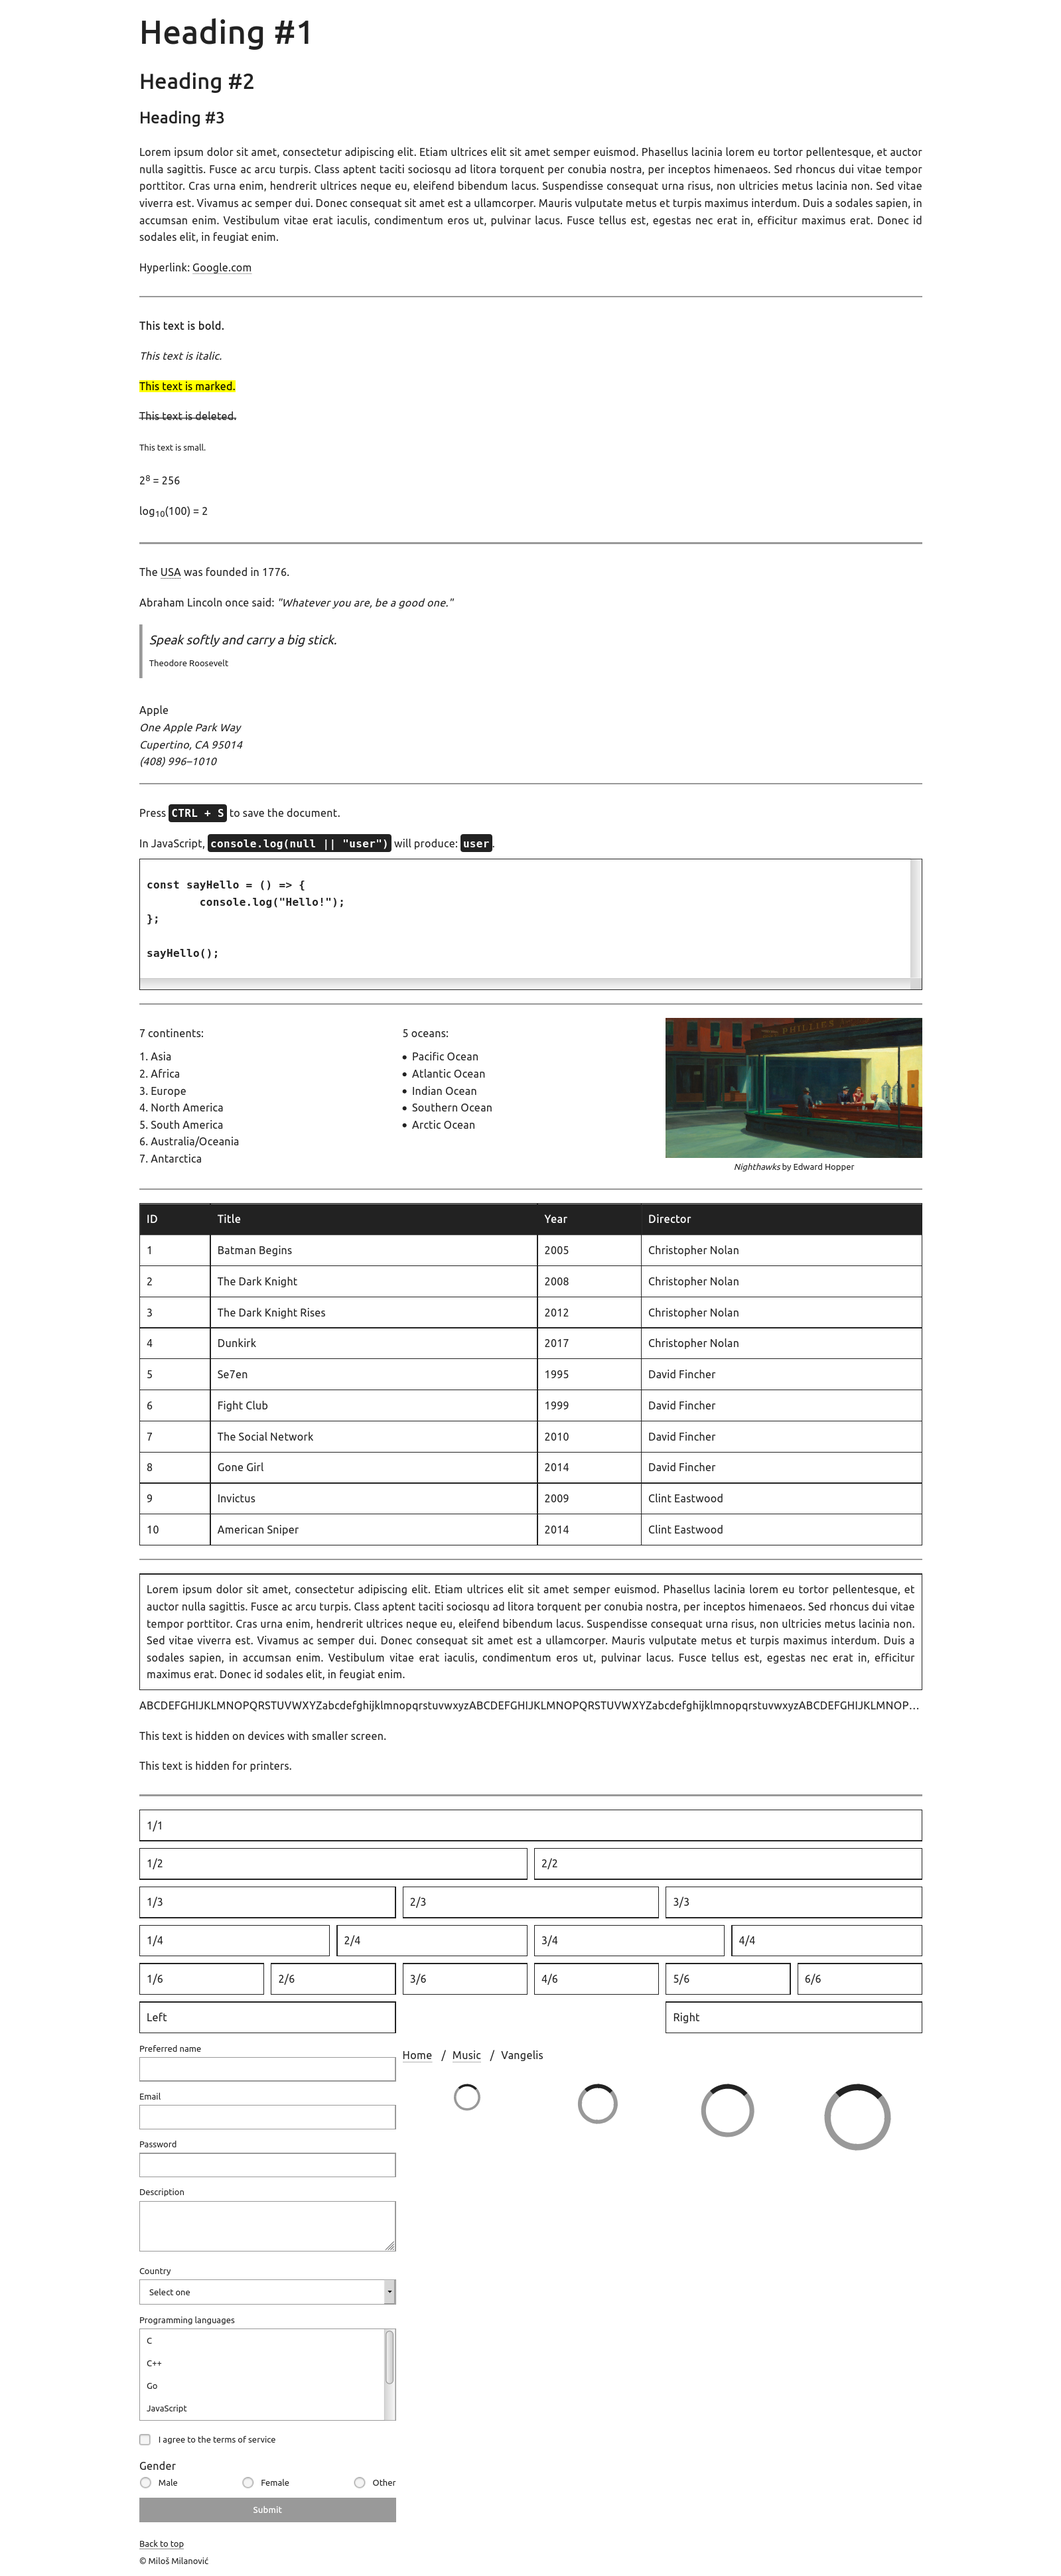
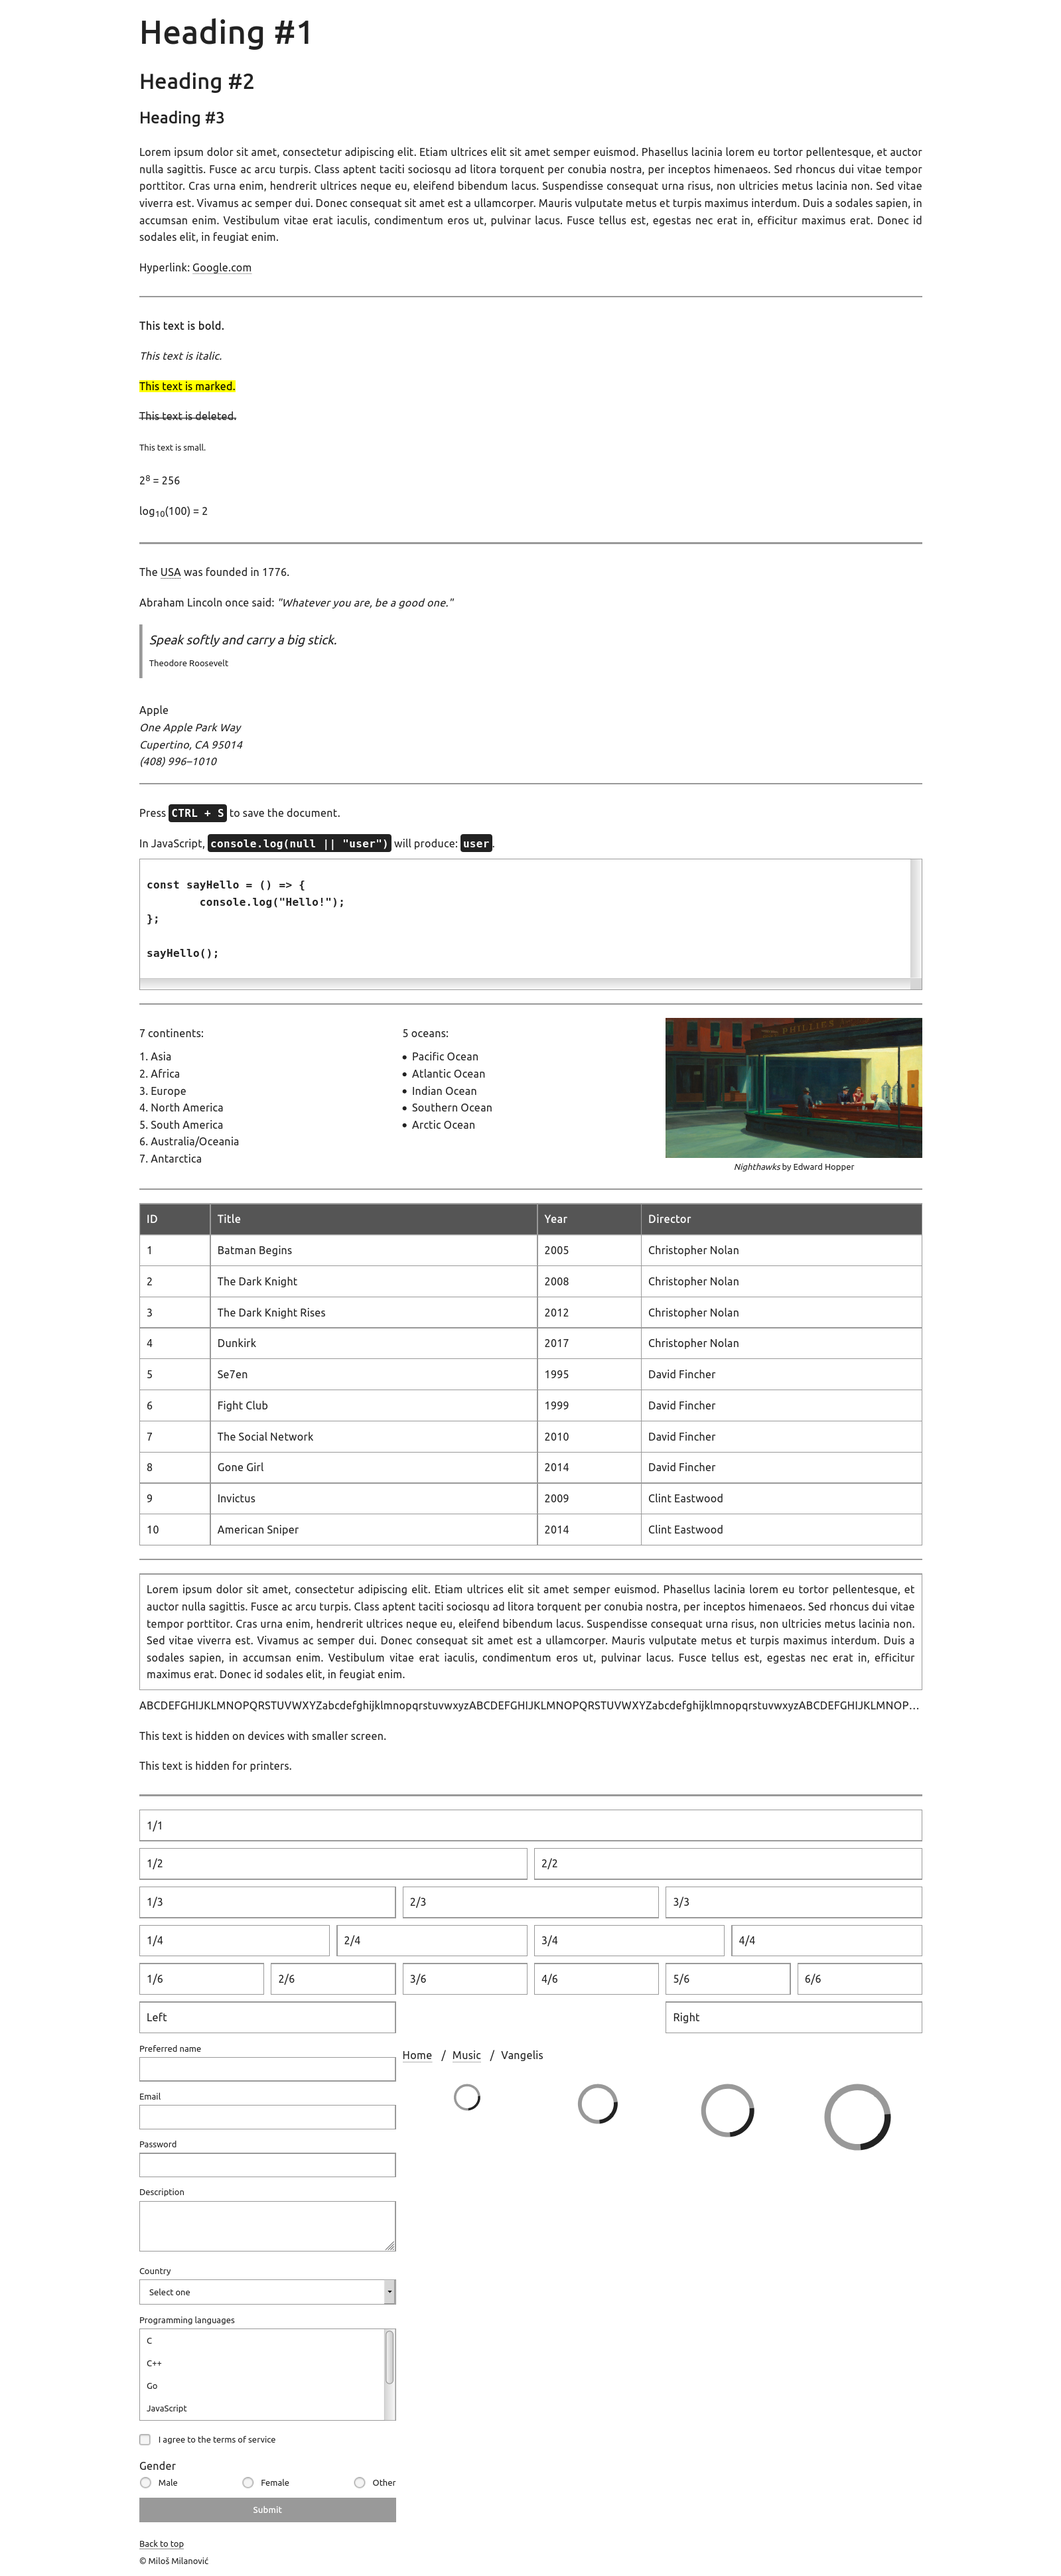
Change border colors to lighter

Changed region(s): [[0.1226, 0.4675, 0.8887, 0.4987], [0.7967, 0.8104, 0.8274, 0.8416]]

diff --git a/dist/minimalizr.css b/dist/minimalizr.css
@@ -1,1 +1,1 @@
-@import"https://fonts.googleapis.com/css2?family=Ubuntu&display=swap";*{font-family:"Ubuntu",sans-serif}*{box-sizing:border-box;margin:0;padding:0}*:focus{outline:3px solid #999;outline-offset:3px}*::selection{background-color:#222;color:#fff}html{font-size:100%;scroll-behavior:smooth}body{background-color:#fff;color:#222;font-size:1rem;line-height:1.6rem}h1,h2,h3{margin:10px 0}h1{font-size:3rem;line-height:4.8rem}h2{font-size:2rem;line-height:3.2rem}h3{font-size:1.5rem;line-height:2.4rem}p{padding:10px 0;text-align:justify}a{cursor:pointer;text-decoration:none;border-bottom:1px solid #999;color:inherit}a:hover,a:active{color:#555}strong{font-weight:bold}em{font-style:italic}mark{background-color:#ff0}del{text-decoration:line-through}small,sub,sup{font-size:smaller}sub{vertical-align:sub}sup{vertical-align:super}abbr[title]{text-decoration:underline dotted}q{font-style:italic}q::before,q::after{content:'"'}blockquote{border-left:5px solid #999;font-style:italic;margin:10px 0;padding:10px;text-align:justify;font-size:larger}blockquote div{font-size:small;font-style:normal;margin-top:10px}address,cite{font-style:italic}kbd,samp,code,pre{font-family:monospace;font-weight:bold}kbd,samp,code{background-color:#222;color:#fff;padding:4px;border-radius:4px}.code{border:1px solid #222;padding:0 10px;overflow:scroll}.code pre{tab-size:1}.code pre code{background-color:inherit;color:inherit}ul,ol{list-style-position:inside}img{max-width:100%;vertical-align:middle}figure figcaption{font-size:smaller;text-align:center}.table-responsive{max-width:100%;overflow-x:auto}table{border-collapse:collapse;width:100%}th,td{border:1px solid #222;padding:10px;text-align:left}th{background-color:#222;color:#fff}form{display:grid;grid-auto-flow:row;grid-gap:10px}label{font-size:smaller}label span{user-select:none}label span:first-child{display:inline-block}.checkbox label{cursor:pointer;display:inline-flex;align-items:center}.checkbox input[type=checkbox]{width:auto;margin-right:10px}.radiogroup{display:flex;justify-content:space-between;flex-wrap:wrap}.radiogroup>span{width:100%}.radiogroup label{cursor:pointer;user-select:none;display:inline-flex;align-items:center;flex-direction:row-reverse}.radiogroup input[type=radio]{width:auto;margin-right:10px}input,textarea,select{border:2px solid #999;background-color:#fff;padding:10px;width:100%;box-shadow:none}input:invalid,textarea:invalid,select:invalid{border-color:red}input:disabled,textarea:disabled,select:disabled{color:#999;cursor:not-allowed}select[multiple]{padding:0}select[multiple] option{padding:10px}textarea{height:auto;min-height:40px;max-height:300px;resize:vertical}button{cursor:pointer;font-weight:bold;border:1px solid #999;background-color:#999;color:#fff;padding:10px;transition-property:background-color;transition-duration:.2s;transition-timing-function:ease-in-out}button:hover:not(:disabled){background-color:#222}button:focus{outline:none;border-color:#222}button:disabled{cursor:not-allowed}input:focus:not([type=radio]):not([type=checkbox]),textarea:focus:not([type=radio]):not([type=checkbox]),select:focus:not([type=radio]):not([type=checkbox]){outline:none;border-color:#222 !important}hr{border:1px solid #999;margin:20px 0}footer{font-size:smaller}@media screen and (max-width: 768px){body{font-size:.9rem}}.container{width:1200px;max-width:100%;margin:0 auto}.container-fluid{width:100%}.container,.container-fluid{padding:0 10px}.row{display:grid;grid-template-columns:repeat(12, 1fr);margin:10px 0}.row-gapped{grid-gap:10px}.col-1{grid-column:span 1}.col-2{grid-column:span 2}.col-3{grid-column:span 3}.col-4{grid-column:span 4}.col-5{grid-column:span 5}.col-6{grid-column:span 6}.col-7{grid-column:span 7}.col-8{grid-column:span 8}.col-9{grid-column:span 9}.col-10{grid-column:span 10}.col-11{grid-column:span 11}.col-12{grid-column:span 12}.col-pull-right{grid-column-end:-1}@media screen and (max-width: 768px){.col-sm-1{grid-column:span 1}.col-sm-2{grid-column:span 2}.col-sm-3{grid-column:span 3}.col-sm-4{grid-column:span 4}.col-sm-5{grid-column:span 5}.col-sm-6{grid-column:span 6}.col-sm-7{grid-column:span 7}.col-sm-8{grid-column:span 8}.col-sm-9{grid-column:span 9}.col-sm-10{grid-column:span 10}.col-sm-11{grid-column:span 11}.col-sm-12{grid-column:span 12}}.bordered{border:1px solid #222}.padded{padding:10px}.text-left{text-align:left}.text-center{text-align:center}.text-right{text-align:right}.text-justify{text-align:justify}.text-truncate{overflow:hidden;text-overflow:ellipsis;white-space:nowrap}.no-scroll{overflow:hidden}ul.breadcrumbs{display:flex;list-style-type:none;user-select:none}ul.breadcrumbs li{padding:10px 0}ul.breadcrumbs li:not(:last-child)::after{content:" / ";color:#222;display:inline-block;margin:0 10px}ul.breadcrumbs li:last-child a{cursor:initial;font-weight:normal;border-bottom:0}ul.breadcrumbs li:last-child a:hover{color:inherit}@keyframes spin{from{transform:rotate(0deg)}to{transform:rotate(360deg)}}.spinner{height:40px;width:40px}.spinner,.spinner-l,.spinner-xl,.spinner-xxl{border:4px solid #999;border-top:4px solid #222;border-radius:50%;display:block;margin:10px auto;overflow:hidden;animation-name:spin;animation-duration:1s;animation-timing-function:linear;animation-iteration-count:infinite}.spinner-l{height:60px;width:60px;border-width:6px}.spinner-xl{height:80px;width:80px;border-width:8px}.spinner-xxl{height:100px;width:100px;border-width:10px}@media screen and (max-width: 768px){.hide-on-sm{display:none}}@media print{.hide-on-print{display:none}}/*# sourceMappingURL=minimalizr.css.map */
+@import"https://fonts.googleapis.com/css2?family=Ubuntu&display=swap";*{font-family:"Ubuntu",sans-serif}*{box-sizing:border-box;margin:0;padding:0}*:focus{outline:3px solid #999;outline-offset:3px}*::selection{background-color:#222;color:#fff}html{font-size:100%;scroll-behavior:smooth}body{background-color:#fff;color:#222;font-size:1rem;line-height:1.6rem}h1,h2,h3{margin:10px 0}h1{font-size:3rem;line-height:4.8rem}h2{font-size:2rem;line-height:3.2rem}h3{font-size:1.5rem;line-height:2.4rem}p{padding:10px 0;text-align:justify}a{cursor:pointer;text-decoration:none;border-bottom:1px solid #999;color:inherit}a:hover,a:active{color:#555}strong{font-weight:bold}em{font-style:italic}mark{background-color:#ff0}del{text-decoration:line-through}small,sub,sup{font-size:smaller}sub{vertical-align:sub}sup{vertical-align:super}abbr[title]{text-decoration:underline dotted}q{font-style:italic}q::before,q::after{content:'"'}blockquote{border-left:5px solid #999;font-style:italic;margin:10px 0;padding:10px;text-align:justify;font-size:larger}blockquote div{font-size:small;font-style:normal;margin-top:10px}address,cite{font-style:italic}kbd,samp,code,pre{font-family:monospace;font-weight:bold}kbd,samp,code{background-color:#222;color:#fff;padding:4px;border-radius:4px}.code{border:1px solid #999;padding:0 10px;overflow:scroll}.code pre{tab-size:1}.code pre code{background-color:inherit;color:inherit}ul,ol{list-style-position:inside}img{max-width:100%;vertical-align:middle}figure figcaption{font-size:smaller;text-align:center}.table-responsive{max-width:100%;overflow-x:auto}table{border-collapse:collapse;width:100%}th,td{border:1px solid #999;padding:10px;text-align:left}th{background-color:#555;color:#fff}form{display:grid;grid-auto-flow:row;grid-gap:10px}label{font-size:smaller}label span{user-select:none}label span:first-child{display:inline-block}.checkbox label{cursor:pointer;display:inline-flex;align-items:center}.checkbox input[type=checkbox]{width:auto;margin-right:10px}.radiogroup{display:flex;justify-content:space-between;flex-wrap:wrap}.radiogroup>span{width:100%}.radiogroup label{cursor:pointer;user-select:none;display:inline-flex;align-items:center;flex-direction:row-reverse}.radiogroup input[type=radio]{width:auto;margin-right:10px}input,textarea,select{border:2px solid #999;background-color:#fff;padding:10px;width:100%;box-shadow:none}input:invalid,textarea:invalid,select:invalid{border-color:red}input:disabled,textarea:disabled,select:disabled{color:#999;cursor:not-allowed}select[multiple]{padding:0}select[multiple] option{padding:10px}textarea{height:auto;min-height:40px;max-height:300px;resize:vertical}button{cursor:pointer;font-weight:bold;border:1px solid #999;background-color:#999;color:#fff;padding:10px;transition-property:background-color;transition-duration:.2s;transition-timing-function:ease-in-out}button:hover:not(:disabled){background-color:#222}button:focus{outline:none;border-color:#222}button:disabled{cursor:not-allowed}input:focus:not([type=radio]):not([type=checkbox]),textarea:focus:not([type=radio]):not([type=checkbox]),select:focus:not([type=radio]):not([type=checkbox]){outline:none;border-color:#222 !important}hr{border:1px solid #999;margin:20px 0}footer{font-size:smaller}@media screen and (max-width: 768px){body{font-size:.9rem}}.container{width:1200px;max-width:100%;margin:0 auto}.container-fluid{width:100%}.container,.container-fluid{padding:0 10px}.row{display:grid;grid-template-columns:repeat(12, 1fr);margin:10px 0}.row-gapped{grid-gap:10px}.col-1{grid-column:span 1}.col-2{grid-column:span 2}.col-3{grid-column:span 3}.col-4{grid-column:span 4}.col-5{grid-column:span 5}.col-6{grid-column:span 6}.col-7{grid-column:span 7}.col-8{grid-column:span 8}.col-9{grid-column:span 9}.col-10{grid-column:span 10}.col-11{grid-column:span 11}.col-12{grid-column:span 12}.col-pull-right{grid-column-end:-1}@media screen and (max-width: 768px){.col-sm-1{grid-column:span 1}.col-sm-2{grid-column:span 2}.col-sm-3{grid-column:span 3}.col-sm-4{grid-column:span 4}.col-sm-5{grid-column:span 5}.col-sm-6{grid-column:span 6}.col-sm-7{grid-column:span 7}.col-sm-8{grid-column:span 8}.col-sm-9{grid-column:span 9}.col-sm-10{grid-column:span 10}.col-sm-11{grid-column:span 11}.col-sm-12{grid-column:span 12}}.bordered{border:1px solid #999}.padded{padding:10px}.text-left{text-align:left}.text-center{text-align:center}.text-right{text-align:right}.text-justify{text-align:justify}.text-truncate{overflow:hidden;text-overflow:ellipsis;white-space:nowrap}.no-scroll{overflow:hidden}ul.breadcrumbs{display:flex;list-style-type:none;user-select:none}ul.breadcrumbs li{padding:10px 0}ul.breadcrumbs li:not(:last-child)::after{content:" / ";color:#222;display:inline-block;margin:0 10px}ul.breadcrumbs li:last-child a{cursor:initial;font-weight:normal;border-bottom:0}ul.breadcrumbs li:last-child a:hover{color:inherit}@keyframes spin{from{transform:rotate(0deg)}to{transform:rotate(360deg)}}.spinner{height:40px;width:40px}.spinner,.spinner-l,.spinner-xl,.spinner-xxl{border:4px solid #999;border-top:4px solid #222;border-radius:50%;display:block;margin:10px auto;overflow:hidden;animation-name:spin;animation-duration:1s;animation-timing-function:linear;animation-iteration-count:infinite}.spinner-l{height:60px;width:60px;border-width:6px}.spinner-xl{height:80px;width:80px;border-width:8px}.spinner-xxl{height:100px;width:100px;border-width:10px}@media screen and (max-width: 768px){.hide-on-sm{display:none}}@media print{.hide-on-print{display:none}}/*# sourceMappingURL=minimalizr.css.map */

diff --git a/src/_base.scss b/src/_base.scss
@@ -149,7 +149,7 @@ kbd, samp, code {
 }
 
 .code {
-	border: 1px solid #222;
+	border: 1px solid #999;
 	padding: 0 10px;
 	overflow: scroll;
 
@@ -193,13 +193,13 @@ table {
 }
 
 th, td {
-	border: 1px solid #222;
+	border: 1px solid #999;
 	padding: 10px;
 	text-align: left;
 }
 
 th {
-	background-color: #222;
+	background-color: #555;
 	color: #fff;
 }
 

diff --git a/src/_utils.scss b/src/_utils.scss
@@ -1,5 +1,5 @@
 .bordered {
-	border: 1px solid #222;
+	border: 1px solid #999;
 }
 
 .padded {
